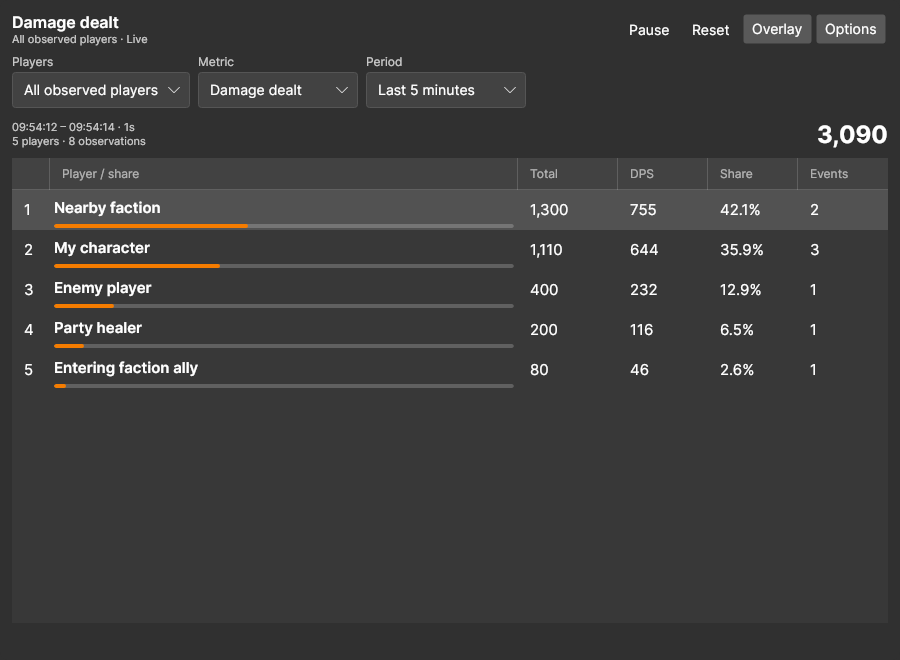
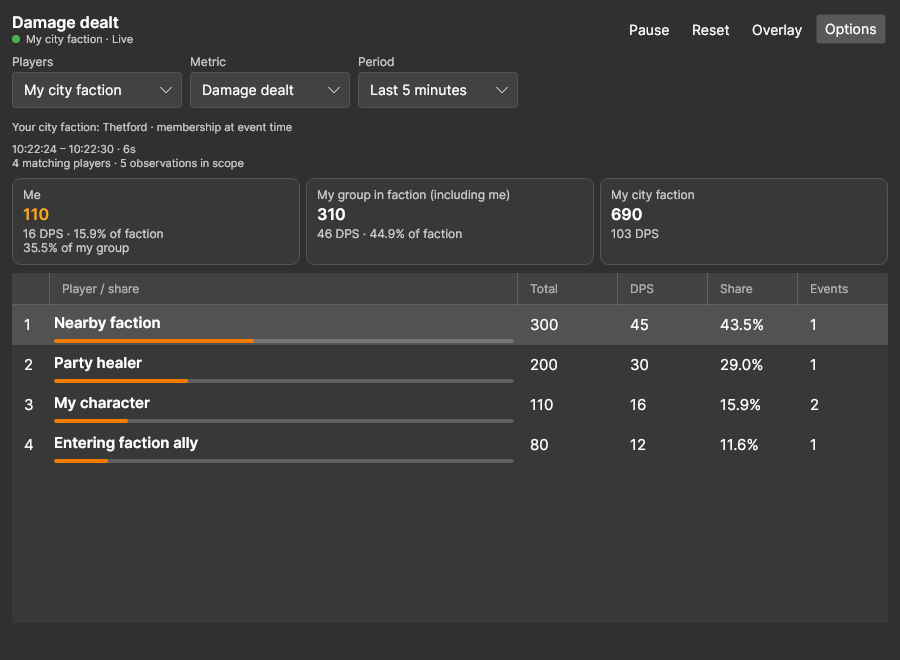
Show nested contributions and polish combat overlay

diff --git a/AlbionDataAvalonia/ViewModels/CombatMeterViewModel.cs b/AlbionDataAvalonia/ViewModels/CombatMeterViewModel.cs
@@ -15,7 +15,7 @@ using System.Threading.Tasks;
 
 namespace AlbionDataAvalonia.ViewModels;
 
-public sealed record CombatMeterDisplayRow(int Rank, CombatMeterRow Value)
+public sealed record CombatMeterDisplayRow(int Rank, CombatMeterRow Value, string RateUnit = "")
 {
     public string Name => Value.Name;
     public string Amount => UiFormat.Whole(Value.Amount);
@@ -23,6 +23,17 @@ public sealed record CombatMeterDisplayRow(int Rank, CombatMeterRow Value)
     public string Share => $"{Value.Share:N1}%";
     public double ShareValue => Value.Share;
     public string Hits => UiFormat.Whole(Value.Hits);
+    public bool IsPersonal => Value.IsPersonal;
+    public string CompactAmount => UiFormat.Compact(Value.Amount);
+    public string RateLabel => $"{Rate} {RateUnit}";
+    public string ShareLabel => $"{Share} of total";
+    public string DetailTip => $"{Amount} total · {Hits} events";
+}
+
+public sealed record CombatMeterContributionHeader(string PersonalTotal, string PersonalDetail,
+    string GroupTotal, string GroupDetail, string ScopeTotal, string ScopeDetail)
+{
+    public static CombatMeterContributionHeader Empty { get; } = new("—", "", "—", "", "—", "");
 }
 
 public sealed partial class CombatMeterViewModel : ViewModelBase, IDisposable
@@ -72,8 +83,10 @@ public sealed partial class CombatMeterViewModel : ViewModelBase, IDisposable
     [ObservableProperty] private bool showSettings;
     [ObservableProperty] private string search = "";
     [ObservableProperty] private string status = "Waiting for character";
+    [ObservableProperty] private bool isLive;
     [ObservableProperty] private string factionStatus = "";
     [ObservableProperty] private string total = "0";
+    [ObservableProperty] private CombatMeterContributionHeader contributionHeader = CombatMeterContributionHeader.Empty;
     [ObservableProperty] private string periodText = "";
     [ObservableProperty] private string participantsText = "";
     [ObservableProperty] private string error = "";
@@ -90,10 +103,23 @@ public sealed partial class CombatMeterViewModel : ViewModelBase, IDisposable
     public bool IsCustomMinutes => SelectedPeriod.Value == -1;
     public bool IsCustomRange => SelectedPeriod.Value == -2;
     public bool IsFactionScope => SelectedScope.Value == CombatMeterScope.Faction;
+    public bool ShowGroupContribution => SelectedScope.Value != CombatMeterScope.Personal;
+    public bool ShowScopeContribution => SelectedScope.Value is CombatMeterScope.Faction or CombatMeterScope.AllObserved;
+    public int ContributionColumns => SelectedScope.Value == CombatMeterScope.Personal ? 1 : SelectedScope.Value == CombatMeterScope.Party ? 2 : 3;
+    public string GroupContributionLabel => IsFactionScope ? "My group in faction (including me)" : "My group (including me)";
+    public string ContributionHint => IsFactionScope
+        ? "Me and My group show contributions within this city faction only. Group members without a matching observed city flag are excluded. These totals overlap and must not be added. Search and Top N filter only the player ranking."
+        : "My group includes me. These totals overlap and must not be added. All contributions use the same period and combat filters; search and Top N filter only the player ranking.";
     public bool HasRows => Rows.Count > 0;
+    public bool ShowTable => HasRows && !IsOverlay;
+    public bool ShowOverlayRanking => HasRows && IsOverlay;
     public bool ShowControls => !IsOverlay || ShowSettings;
     public bool SupportsClickThrough => OperatingSystem.IsWindows();
     public string PauseText => tracker.CombatMeter.IsPaused ? "Resume" : "Pause";
+    public string OverlayButtonText => IsOverlay ? "Window" : "Overlay";
+    public string OverlayKeyHint => OperatingSystem.IsWindows()
+        ? "Ctrl+Alt+D hide / show · Ctrl+Alt+H window"
+        : "Ctrl+Alt+H window (while focused)";
     public string MetricTitle => SelectedMetric.Label;
     public string RateTitle => SelectedMetric.Value is CombatMeterMetric.Damage or CombatMeterMetric.DamageReceived ? "DPS" : "HPS";
     public string ShortcutsHelp => OperatingSystem.IsWindows()
@@ -132,9 +158,17 @@ public sealed partial class CombatMeterViewModel : ViewModelBase, IDisposable
             OnPropertyChanged(nameof(IsCustomMinutes)); OnPropertyChanged(nameof(IsCustomRange));
         }
         if (e.PropertyName is nameof(IsOverlay) or nameof(ShowSettings)) OnPropertyChanged(nameof(ShowControls));
+        if (e.PropertyName is nameof(IsOverlay) or nameof(HasRows))
+        { OnPropertyChanged(nameof(ShowTable)); OnPropertyChanged(nameof(ShowOverlayRanking)); }
+        if (e.PropertyName == nameof(IsOverlay)) OnPropertyChanged(nameof(OverlayButtonText));
         if (e.PropertyName == nameof(IsOverlay)) { IsHidden = false; ShowSettings = false; }
         if (e.PropertyName == nameof(SelectedMetric)) { OnPropertyChanged(nameof(MetricTitle)); OnPropertyChanged(nameof(RateTitle)); }
-        if (e.PropertyName == nameof(SelectedScope)) OnPropertyChanged(nameof(IsFactionScope));
+        if (e.PropertyName == nameof(SelectedScope))
+        {
+            OnPropertyChanged(nameof(IsFactionScope)); OnPropertyChanged(nameof(ShowGroupContribution));
+            OnPropertyChanged(nameof(ShowScopeContribution)); OnPropertyChanged(nameof(GroupContributionLabel));
+            OnPropertyChanged(nameof(ContributionHint)); OnPropertyChanged(nameof(ContributionColumns));
+        }
         if (e.PropertyName == nameof(Search)) { searchDebouncer.Trigger(); return; }
         if (e.PropertyName is { } name && persisted.Contains(name))
         {
@@ -179,13 +213,26 @@ public sealed partial class CombatMeterViewModel : ViewModelBase, IDisposable
         var seconds = IsCustomMinutes ? Math.Clamp(CustomMinutes, 1, 120) * 60 : SelectedPeriod.Value;
         snapshot = tracker.CombatMeter.Snapshot(DateTime.UtcNow, seconds > 0 ? TimeSpan.FromSeconds(seconds) : null,
             from, to, SelectedScope.Value, SelectedMetric.Value, SelectedTargets.Value, IncludeSelfHealing, ActiveRate, Search);
-        Rows.ReplaceAll(snapshot.Rows.Take(SelectedLimit.Value).Select((x, i) => new CombatMeterDisplayRow(i + 1, x)));
+        Rows.ReplaceAll(snapshot.Rows.Take(SelectedLimit.Value).Select((x, i) => new CombatMeterDisplayRow(i + 1, x, RateTitle)));
         OnPropertyChanged(nameof(HasRows));
         Total = UiFormat.Whole(snapshot.Total);
+        var basis = SelectedScope.Value switch
+        { CombatMeterScope.Party => "group", CombatMeterScope.Faction => "faction", _ => "all observed" };
+        var personalDetail = $"{UiFormat.Whole(snapshot.Personal.Rate)} {RateTitle}";
+        if (ShowGroupContribution) personalDetail += $" · {snapshot.Personal.Share:N1}% of {basis}";
+        if (ShowScopeContribution)
+            personalDetail += snapshot.Party.Amount > 0
+                ? $"\n{snapshot.Personal.Amount / snapshot.Party.Amount * 100:N1}% of my group"
+                : "\nNo group contribution in this scope";
+        var groupDetail = $"{UiFormat.Whole(snapshot.Party.Rate)} {RateTitle}";
+        if (ShowScopeContribution) groupDetail += $" · {snapshot.Party.Share:N1}% of {basis}";
+        ContributionHeader = new(UiFormat.Whole(snapshot.Personal.Amount), personalDetail,
+            UiFormat.Whole(snapshot.Party.Amount), groupDetail, Total, $"{UiFormat.Whole(snapshot.Overall.Rate)} {RateTitle}");
         PeriodText = $"{UiFormat.LocalTime(snapshot.Start)} – {UiFormat.LocalTime(snapshot.End)} · {UiFormat.Duration(snapshot.End - snapshot.Start)}";
-        ParticipantsText = $"{UiFormat.Count(snapshot.Rows.Count, "player")} · {UiFormat.Count(snapshot.Observations, "observation")}";
+        ParticipantsText = $"{UiFormat.Count(snapshot.Rows.Count, "matching player")} · {UiFormat.Count(snapshot.Observations, "observation")} in scope";
+        IsLive = !tracker.CombatMeter.IsPaused && tracker.CombatCaptureReady;
         var captureStatus = tracker.CombatMeter.IsPaused ? "Paused — incoming events are skipped"
-            : tracker.CombatCaptureReady ? "Live" : "Waiting for confirmed game traffic";
+            : IsLive ? "Live" : "Waiting for confirmed game traffic";
         Status = $"{SelectedScope.Label} · {captureStatus}";
         var flag = tracker.CombatFactionFlag;
         var faction = flag switch { 1 => "Martlock", 2 => "Lymhurst", 3 => "Bridgewatch", 4 => "Fort Sterling", 5 => "Thetford", 6 => "Caerleon", _ => "" };
@@ -195,7 +242,7 @@ public sealed partial class CombatMeterViewModel : ViewModelBase, IDisposable
         if (snapshot.Truncated) Error = "Oldest observations were removed by the 2-hour / 200,000-event memory limit. The period shows retained data.";
     }
 
-    private void ClearRows() { snapshot = null; Rows.ReplaceAll([]); Total = "—"; PeriodText = ""; ParticipantsText = ""; OnPropertyChanged(nameof(HasRows)); }
+    private void ClearRows() { snapshot = null; Rows.ReplaceAll([]); Total = "—"; ContributionHeader = CombatMeterContributionHeader.Empty; PeriodText = ""; ParticipantsText = ""; OnPropertyChanged(nameof(HasRows)); }
     [RelayCommand] private void Reset() { tracker.CombatMeter.Reset(DateTime.UtcNow); SelectedPeriod = Periods[0]; CopyStatus = ""; Refresh(); }
     [RelayCommand] private void TogglePause() { tracker.CombatMeter.SetPaused(!tracker.CombatMeter.IsPaused, DateTime.UtcNow); OnPropertyChanged(nameof(PauseText)); Refresh(); }
     [RelayCommand] private void ToggleOverlay() => IsOverlay = !IsOverlay;
@@ -206,9 +253,14 @@ public sealed partial class CombatMeterViewModel : ViewModelBase, IDisposable
     private async Task Copy()
     {
         if (snapshot is null) return;
-        var text = new StringBuilder($"{MetricTitle} | {SelectedScope.Label} | {PeriodText}\nPlayer\tTotal\t{RateTitle}\tShare\tObservations\n");
+        var text = new StringBuilder($"{MetricTitle} | {SelectedScope.Label} | {PeriodText}\nOverlapping contributions (do not add)\nSummary\tTotal\t{RateTitle}\tShare of scope\tObservations\n");
+        void Summary(string label, CombatMeterContribution value) => text.AppendLine($"{label}\t{value.Amount.ToString("0.##", CultureInfo.InvariantCulture)}\t{value.Rate.ToString("0.##", CultureInfo.InvariantCulture)}\t{value.Share.ToString("0.##", CultureInfo.InvariantCulture)}%\t{value.Hits}");
+        Summary("Me", snapshot.Personal);
+        if (ShowGroupContribution) Summary(GroupContributionLabel, snapshot.Party);
+        if (ShowScopeContribution) Summary(SelectedScope.Label, snapshot.Overall);
+        text.AppendLine("\nMatching players\nPlayer\tTotal\t" + RateTitle + "\tShare of scope\tObservations");
         foreach (var r in snapshot.Rows) text.AppendLine($"{r.Name}\t{r.Amount.ToString("0.##", CultureInfo.InvariantCulture)}\t{r.Rate.ToString("0.##", CultureInfo.InvariantCulture)}\t{r.Share.ToString("0.##", CultureInfo.InvariantCulture)}%\t{r.Hits}");
-        CopyStatus = await clipboard.SetTextAsync(text.ToString()) ? "Copied all filtered players" : "Could not copy";
+        CopyStatus = await clipboard.SetTextAsync(text.ToString()) ? "Copied contributions and matching players" : "Could not copy";
     }
     public void Dispose() { disposed = true; timer.Stop(); timer.Tick -= Tick; searchDebouncer.Dispose(); }
 }

diff --git a/AlbionDataAvalonia/Activity/CombatMeter.cs b/AlbionDataAvalonia/Activity/CombatMeter.cs
@@ -11,9 +11,18 @@ public enum CombatMeterTargets { All, Players, Mobs }
 
 public sealed record CombatMeterActor(string Id, string Name, ActivityActorKind Kind,
     ActorRelationship Relationship, bool SameFaction);
-public sealed record CombatMeterRow(string Id, string Name, double Amount, double Rate, double Share, int Hits);
+public sealed record CombatMeterRow(string Id, string Name, double Amount, double Rate, double Share, int Hits, bool IsPersonal = false);
+public sealed record CombatMeterContribution(double Amount, double Rate, double Share, int Hits)
+{
+    public static CombatMeterContribution Empty { get; } = new(0, 0, 0, 0);
+}
 public sealed record CombatMeterSnapshot(DateTime Start, DateTime End, IReadOnlyList<CombatMeterRow> Rows,
-    double Total, long Observations, bool Truncated);
+    double Total, long Observations, bool Truncated)
+{
+    public CombatMeterContribution Personal { get; init; } = CombatMeterContribution.Empty;
+    public CombatMeterContribution Party { get; init; } = CombatMeterContribution.Empty;
+    public CombatMeterContribution Overall { get; init; } = CombatMeterContribution.Empty;
+}
 
 /// <summary>Bounded, process-local health observations, independent of the Activity database.
 /// Membership is frozen when the event arrives. No later roster change rewrites history.</summary>
@@ -102,7 +111,9 @@ public sealed class CombatMeter
             if (truncated) start = retainedFrom;
             if (start > end) start = end;
             var totals = new Dictionary<string, Aggregate>();
-            long count = 0;
+            var personal = new Aggregate("Me");
+            var party = new Aggregate("My group");
+            var overall = new Aggregate("Scope");
             for (var i = first; i < events.Count; i++)
             {
                 var e = events[i];
@@ -116,23 +127,36 @@ public sealed class CombatMeter
                 if (actor.Kind != ActivityActorKind.Player || !InScope(actor, scope)) continue;
                 if (targets == CombatMeterTargets.Players && other.Kind != ActivityActorKind.Player
                     || targets == CombatMeterTargets.Mobs && other.Kind != ActivityActorKind.Mob) continue;
-                if (!actor.Name.Contains(search.Trim(), StringComparison.OrdinalIgnoreCase)) continue;
                 if (!totals.TryGetValue(actor.Id, out var a)) totals.Add(actor.Id, a = new(actor.Name));
-                a.Amount += Math.Abs(e.Delta); a.Hits++; count++;
-                // A player's activity spans include seven seconds after each selected observation.
-                var until = e.At.AddSeconds(7) < end ? e.At.AddSeconds(7) : end;
-                var begins = e.At > a.ActiveUntil ? e.At : a.ActiveUntil;
-                a.ActiveSeconds += Math.Max(0, (until - begins).TotalSeconds);
-                if (until > a.ActiveUntil) a.ActiveUntil = until;
+                Accumulate(a, e, end);
+                a.IsPersonal |= actor.Relationship == ActorRelationship.Self;
+                Accumulate(overall, e, end);
+                if (actor.Relationship == ActorRelationship.Self) Accumulate(personal, e, end);
+                if (actor.Relationship is ActorRelationship.Self or ActorRelationship.Party) Accumulate(party, e, end);
             }
-            var total = totals.Values.Sum(x => x.Amount);
+            var total = overall.Amount;
             var elapsed = Math.Max(1, (end - start).TotalSeconds);
-            var rows = totals.Select(x => new CombatMeterRow(x.Key, x.Value.Name, x.Value.Amount,
-                x.Value.Amount / (activeRate ? Math.Max(1, x.Value.ActiveSeconds) : elapsed),
-                total > 0 ? x.Value.Amount / total * 100 : 0, x.Value.Hits)).OrderByDescending(x => x.Amount)
+            CombatMeterContribution Contribution(Aggregate value) => new(value.Amount,
+                value.Amount / (activeRate ? Math.Max(1, value.ActiveSeconds) : elapsed),
+                total > 0 ? value.Amount / total * 100 : 0, value.Hits);
+            var rows = totals.Where(x => x.Value.Name.Contains(search.Trim(), StringComparison.OrdinalIgnoreCase))
+                .Select(x => new CombatMeterRow(x.Key, x.Value.Name, x.Value.Amount,
+                    Contribution(x.Value).Rate, Contribution(x.Value).Share, x.Value.Hits, x.Value.IsPersonal)).OrderByDescending(x => x.Amount)
                 .ThenBy(x => x.Name, StringComparer.OrdinalIgnoreCase).ToArray();
-            return new(start, end, rows, total, count, truncated);
+            return new(start, end, rows, total, overall.Hits, truncated)
+            { Personal = Contribution(personal), Party = Contribution(party), Overall = Contribution(overall) };
         }
+    }
+
+    private static void Accumulate(Aggregate value, Observation observation, DateTime end)
+    {
+        value.Amount += Math.Abs(observation.Delta);
+        value.Hits++;
+        // Union of selected event spans, for a player or the entire overlapping summary.
+        var until = observation.At.AddSeconds(7) < end ? observation.At.AddSeconds(7) : end;
+        var begins = observation.At > value.ActiveUntil ? observation.At : value.ActiveUntil;
+        value.ActiveSeconds += Math.Max(0, (until - begins).TotalSeconds);
+        if (until > value.ActiveUntil) value.ActiveUntil = until;
     }
 
     private static bool InScope(CombatMeterActor actor, CombatMeterScope scope) => scope switch
@@ -153,6 +177,7 @@ public sealed class CombatMeter
         public string Name { get; } = name;
         public double Amount, ActiveSeconds;
         public int Hits;
+        public bool IsPersonal;
         public DateTime ActiveUntil;
     }
 }

diff --git a/AlbionDataAvalonia/Views/CombatMeterWindow.axaml.cs b/AlbionDataAvalonia/Views/CombatMeterWindow.axaml.cs
@@ -50,8 +50,8 @@ public partial class CombatMeterWindow : Window
         ShowInTaskbar = !vm.IsOverlay;
         ShowActivated = !vm.IsOverlay;
         Topmost = vm.IsOverlay && vm.Pinned;
-        MinWidth = vm.IsOverlay ? 360 : 640;
-        MinHeight = vm.IsOverlay ? 240 : 460;
+        MinWidth = vm.IsOverlay ? 540 : 640;
+        MinHeight = vm.IsOverlay ? 400 : 560;
         TransparencyLevelHint = vm.IsOverlay ? [WindowTransparencyLevel.Transparent] : [WindowTransparencyLevel.None];
         Background = vm.IsOverlay ? null : UiPalette.Brush("UiWindowBrush");
         var native = false;

diff --git a/docs/DEVELOPMENT.md b/docs/DEVELOPMENT.md
@@ -8,9 +8,9 @@ Technical notes for contributors. For installing and using the client, see the [
 
 The desktop `CombatFactionHandler` consumes the shared `EventPacket` envelope: `NewCharacter[0,53]` supplies object ID and faction flag; `ChangeFlaggingFinished[0,1]` updates it. It adds no Photon parser or shared packet DTO. The wire shape was cross-checked with the public OpenRadar player schema/fixtures (`Nouuu/Albion-Online-OpenRadar`, commit `2786827386ee31d37d5a6068b965f42d589fe946`, `docs/technical/PLAYERS.md` and `web/scripts/handlers/PlayersHandler.js`) and another independent handler. Event numbers come from the pinned core's enum, not from older fixture codes. Flags 1–6 are cities, 0 is neutral and 255 is red PvP. Missing/malformed values remain unknown. Own flag detection needs an observed local spawn or completed flag change; no Join field is guessed, and initial capture while already flagged can require reflagging once. Early unknown observations are never retroactively classified. Spawn metadata before Join is bounded by connection identity, join window and actor lifetime; old bindings clear on map/capture changes. Live protocol validation remains necessary after game updates.
 
-`CombatMeterViewModel` refreshes only while its window exists; the meter continues collecting while the window is closed. Retention is two hours and 200,000 observations; truncation changes the visible start and displays a warning. Reset is independent of the journal and rejects delayed pre-reset observations. Pausing skips events and freezes the displayed end; elapsed-time rates include the pause after resuming. Elapsed DPS/HPS divides by the selected retained period including idle time. Optional active-time rates use the per-player union of seven-second intervals after matching observations, clipped at the selected end. They are a display estimate, not the journal's encounter duration. Shares and copied output use all filtered players, even with a Top N row limit. Fixed date/time ranges use the OS local timezone and reject ambiguous/invalid DST times.
+`CombatMeterViewModel` refreshes only while its window exists; the meter continues collecting while the window is closed. Retention is two hours and 200,000 observations; truncation changes the visible start and displays a warning. Reset is independent of the journal and rejects delayed pre-reset observations. Pausing skips events and freezes the displayed end; elapsed-time rates include the pause after resuming. Elapsed DPS/HPS divides by the selected retained period including idle time. Optional active-time rates use the per-player union of seven-second intervals after matching observations, clipped at the selected end. They are a display estimate, not the journal's encounter duration. A single locked snapshot also accumulates overlapping personal, party (including self) and overall summaries from the same selected-scope events. Personal scope displays one card, Party two and Faction/All observed three; the cards remain visible in overlay mode and outside Top N. In faction scope the personal/party summaries are intersections with the observed faction, not totals from other/unflagged group members. Group membership is tested per event, so an actor joining or leaving midway does not move their entire row into/out of the group total. Name search filters only ranked rows; all shares keep the full selected-scope denominator, and personal/group cards remain unchanged. Copy includes the overlapping summaries and every matching player, independent of Top N. Aggregate active-time rates use the union of event intervals across the summary’s members, not the sum of per-player time. Fixed date/time ranges use the OS local timezone and reject ambiguous/invalid DST times.
 
-The window uses `SingleWindowHost` and existing UI tokens/controls. `UserSettings.CombatMeterOptions` persists validated preferences; open state and placement are separate settings. The shared native overlay helper accepts distinct hotkeys (meter Ctrl+Alt+D/H, map Ctrl+Alt+M/O); click-through requires both registrations and an explicit Windows-only option. Opening Options disables click-through so controls remain reachable. No keyboard hook or game input injection is used.
+The window uses `SingleWindowHost` and existing UI tokens/controls. Overlay mode has a translucent backdrop, live/paused indicator and a bounded virtualized ListBox ranking instead of the normal DataGrid. Rows show compact totals, shares, DPS/HPS and an event-time Self badge; pinned contribution cards and recovery-key hints remain visible. Full values and observation counts are available in row tooltips. Its minimum overlay size leaves room for the summary cards and ranking. `UserSettings.CombatMeterOptions` persists validated preferences; open state and placement are separate settings. The shared native overlay helper accepts distinct hotkeys (meter Ctrl+Alt+D/H, map Ctrl+Alt+M/O); click-through requires both registrations and an explicit Windows-only option. Opening Options disables click-through so controls remain reachable. No keyboard hook or game input injection is used.
 
 Validation: build the solution, run the existing PoW tests and `scripts/check-ui-tokens.sh`. Exercise decoded synthetic traffic for personal/party/non-party faction scopes, neutral/red flags, membership changes, wrong connections, reliable retransmissions, pre-Join metadata and capture/owner transitions. Check rolling/fixed time filters, self-heals, received direction, rate denominators, retention, pause/reset, settings restore and hidden-window recovery. Render the actual Avalonia window with populated rows and with Options/Overlay enabled. Live Windows checks remain required for global hotkey conflicts, focus, opacity, click-through/recovery with the map open and a real faction fight. Linux headless rendering does not validate those Win32 operations, macOS behavior or exclusive-fullscreen games.
 

diff --git a/README.md b/README.md
@@ -326,9 +326,11 @@ Made by [JP CodeCraft](https://jpcodecraft.com/), the developer behind Albion Fr
 
 Open **Activity › Combat statistics** for a separate damage and healing meter. Choose **Me**, **Group (including me)**, **My city faction**, or **All observed players**. The faction view includes nearby players outside your group whose observed city flag matches yours. If your own faction is unknown, take down and raise your faction flag once while capture is running. Unknown affiliations stay excluded; guilds, alliances and red PvP flags are not treated as city factions.
 
+**Me** shows only your statistics. **Group** keeps your contribution beside the group total (including you). **My city faction** shows your contribution, your group’s contribution and the faction total together, with your and your group’s percentages of the faction, and your percentage of your group. In faction scope, only events with a matching observed city flag contribute to these summaries, including for group members. These totals overlap and must not be added. Every summary uses the same period and combat filters; name search and Top N affect only the player ranking, so they never hide your contribution or change percentage denominators.
+
 Switch between damage dealt, healing done, damage received and healing received. Each player has a total, DPS/HPS, share and observation count. Choose a rolling period, custom minutes, a local date/time range, or **Since reset**. **Reset** clears only this meter and starts a fresh period; Activity history is kept. **Pause** skips incoming observations until resumed. Options include target/source type, player search, self-healing, active-time rates, row count, refresh speed and copying all filtered players.
 
-Enable **Overlay** for a borderless window. Drag its heading to move it and use the bottom-right grip to resize. Options control opacity and always-on-top. On Windows, **Ctrl+Alt+D** hides/shows it and **Ctrl+Alt+H** switches between window and overlay even while the game has focus. Click-through activates only when both shortcuts register and Options is closed. On Linux/macOS, shortcuts require focus and click-through is unavailable. **Activity › Combat statistics** also restores a hidden window. Use borderless/windowed game mode for desktop overlays; exclusive fullscreen may cover them.
+Enable **Overlay** for a translucent borderless window with a compact ranking: player names, contribution bars, share of the selected total, totals and DPS/HPS. Your entry has an accent and a **Me** badge. Personal/group/faction summary cards stay visible above the ranking; filters and settings are tucked behind **Options**. Drag its heading to move it and use the bottom-right grip to resize. Options control opacity and always-on-top. On Windows, **Ctrl+Alt+D** hides/shows it and **Ctrl+Alt+H** switches between window and overlay even while the game has focus. Click-through activates only when both shortcuts register and Options is closed. On Linux/macOS, shortcuts require focus and click-through is unavailable. **Activity › Combat statistics** also restores a hidden window. Use borderless/windowed game mode for desktop overlays; exclusive fullscreen may cover them.
 
 The meter uses only health events received by your client, including when Activity recording is off. It cannot measure players outside visibility, recover missed events, or separate overhealing from the observed health-change values. Membership is captured at event time. Data stays in memory for up to two hours or 200,000 observations, whichever limit is reached first, and clears on character/server change or app exit. The window remembers its settings, size and position.
 
